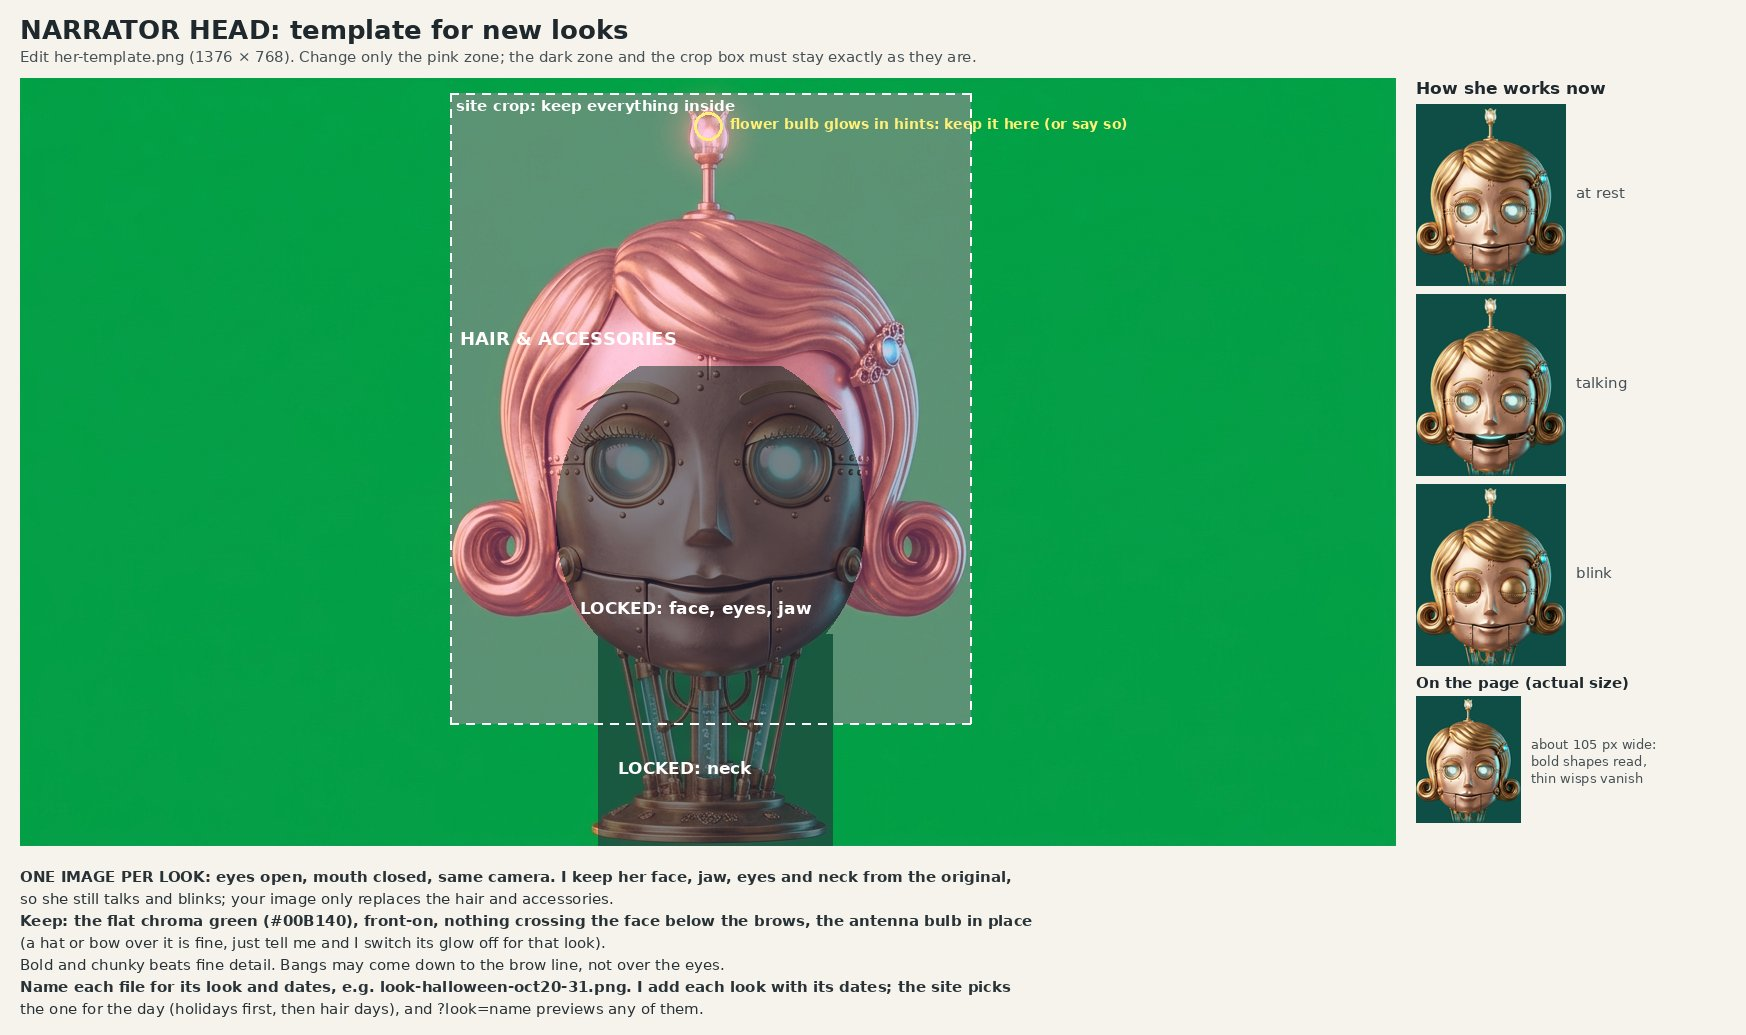
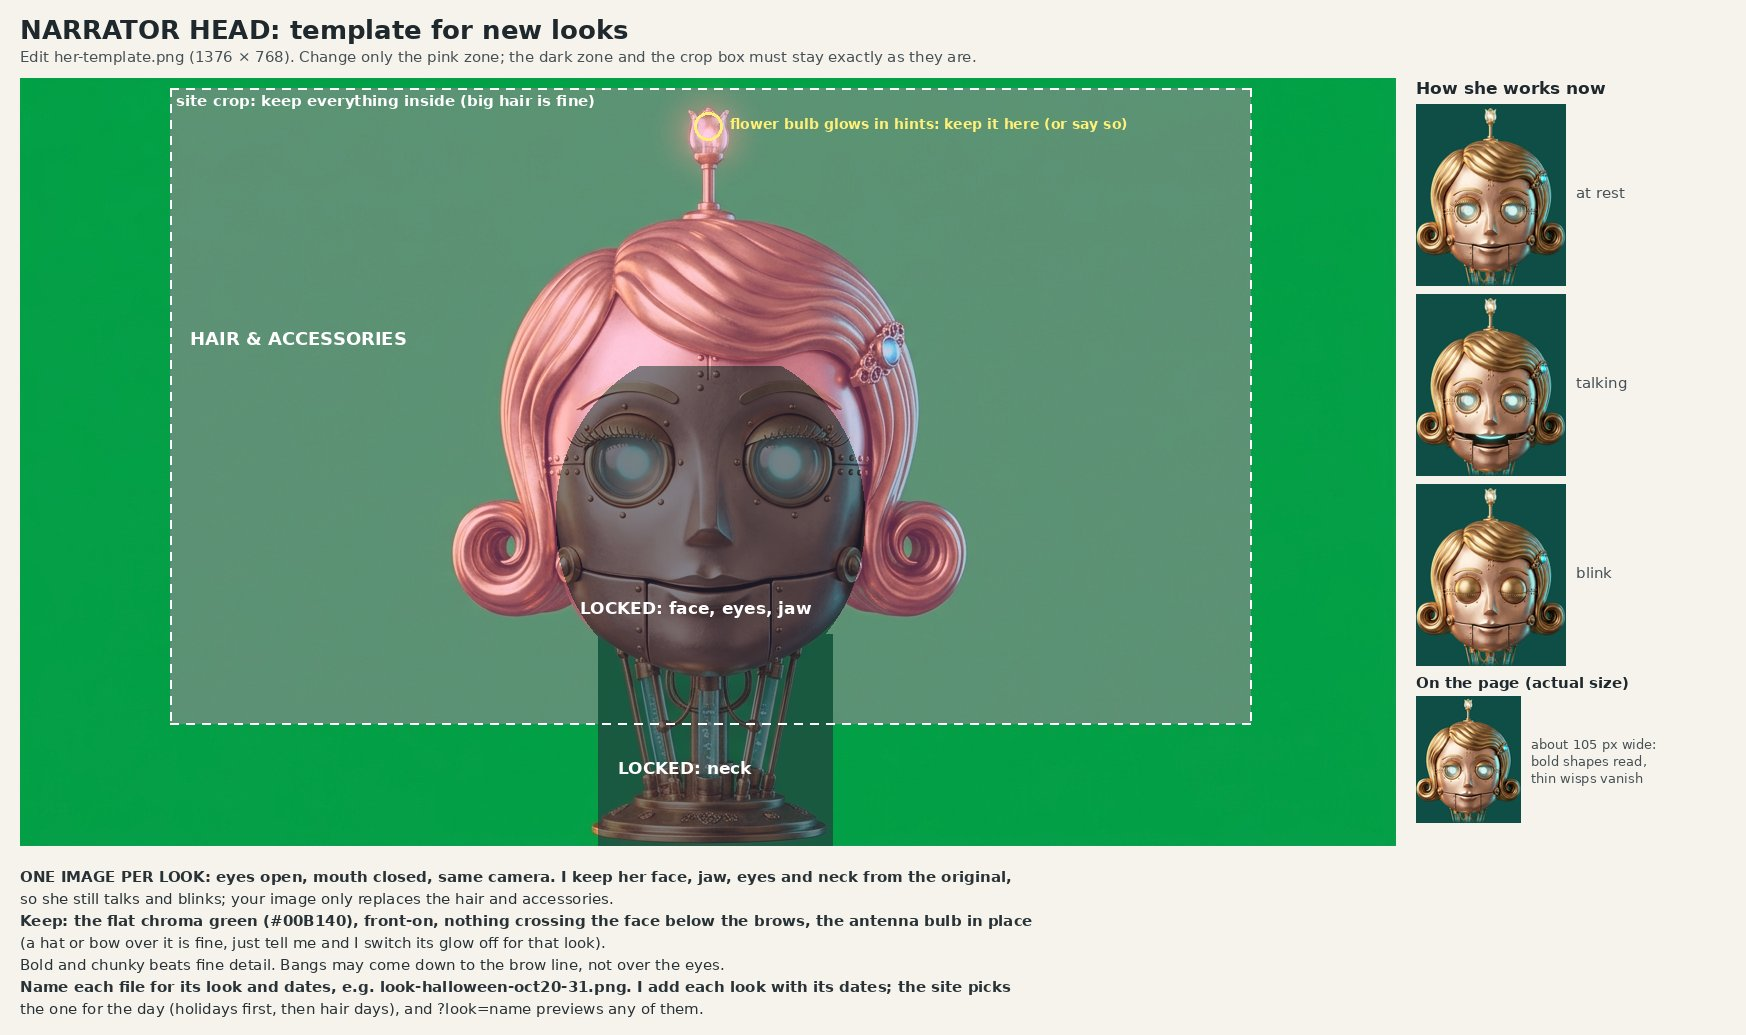
Narrator: room for big hair, and a new look on every page load (#144)
- Her head's layers are cut wider (x 150 to 1230 of the 1376 x 768 renders) so a perm, a crimp
  or a side ponytail fits; her face sits exactly where it did. The face lock, the edit mask and
  the contact sheet follow the new box.
- On days without a holiday look she now picks at random on each page load, from her curls and
  the looks marked rotate (the same one in every bar on a page).

Claude-Session: https://claude.ai/code/session_0195hiXiVZY5DpQ2CCYEr2vL

Changed region(s): [[0.0928, 0.0618, 0.7423, 0.7111]]

diff --git a/js/narrator.js b/js/narrator.js
@@ -16,7 +16,7 @@
    - Now and then it blinks. With reduced motion it stays still, and only the mouth moves. */
 (function () {
   'use strict';
-  var A = '/assets/narrator/', V = '?v=7', DROP = 0.054;   // the chin plate's drop, as a share of the head's height (the side plates go half as far)
+  var A = '/assets/narrator/', V = '?v=8', DROP = 0.0535;   // the chin plate's drop, as a share of the head layer's height (the side plates go half as far)
   var D = 193 / 24, IDLE = 0, GESTURES = [{ f: 1, r: 2 }, { f: 3, r: 4 }];   // the parts of narrator.mp4: forward and backwards copies
   // the hints, parts 5 to 7, with what the head does when (seconds into the part): look toward Play, wink, the bulb glows
   var HINTS = [
@@ -27,9 +27,9 @@
 
   // HER LOOKS (assets/narrator/looks.json): new hair and accessories over the same face, jaw, eyes and neck, so only
   // the head's base layer changes (made in the Workshop's "Narrator looks"). A look with dates ("10-20" to "10-31",
-  // which may wrap the new year) wears on those days; looks marked "rotate" take turns, a day each, with her own curls,
-  // on the days in between. ?look=name in the address shows any look; ?look=curls her own. "bulb": false for a look
-  // whose hat or bow covers the antenna (its glow stays off).
+  // which may wrap the new year) wears on those days; on other days she picks one at random on each page load from
+  // her own curls and the looks marked "rotate" (the same one in every bar on the page). ?look=name in the address
+  // shows any look; ?look=curls her own. "bulb": false for a look whose hat or bow covers the antenna.
   var looks = fetch(A + 'looks.json' + V, { cache: 'no-cache' }).then(function (r) { return r.ok ? r.json() : { looks: [] }; }).catch(function () { return { looks: [] }; }).then(function (j) {
     var list = (j && j.looks) || [], m = /[?&+]look=([a-z0-9-]+)/i.exec(location.search), d = new Date();
     if (m) return list.filter(function (l) { return l.name === m[1].toLowerCase(); })[0] || null;
@@ -37,7 +37,7 @@
     var on = list.filter(function (l) { return l.from && l.to && (l.from <= l.to ? md >= l.from && md <= l.to : md >= l.from || md <= l.to); })[0];
     if (on) return on;
     var turns = [null].concat(list.filter(function (l) { return l.rotate; }));
-    return turns[Math.floor((d - new Date(d.getFullYear(), 0, 0)) / 864e5) % turns.length];
+    return turns[Math.floor(Math.random() * turns.length)];
   });
   function wear(nb) {
     looks.then(function (l) {

diff --git a/css/narrator.css b/css/narrator.css
@@ -12,9 +12,9 @@ section.listen.has-nb::before{content:"";position:absolute;left:0;right:0;bottom
   /* its right edge blends into the desk strip, and its top edge softens into the bar */
   -webkit-mask-image:linear-gradient(90deg,#000 95%,transparent),linear-gradient(180deg,transparent,#000 6%);-webkit-mask-composite:source-in;
   mask-image:linear-gradient(90deg,#000 95%,transparent),linear-gradient(180deg,transparent,#000 6%);mask-composite:intersect}
-/* her head: her chin rests on the torso's collar (the collar's top is 9.8% down the torso); her curls make it
-   wide, 50% of the robot's width */
-.nb-head{position:absolute;left:25%;width:50%;bottom:79.8%;aspect-ratio:300/363;transform-origin:50% 92%;z-index:1;transition:rotate .5s cubic-bezier(.3,1.4,.5,1),translate .5s cubic-bezier(.3,1.4,.5,1);
+/* her head: her chin rests on the torso's collar (the collar's top is 9.8% down the torso). The layers are cut
+   wide, so big hair (a perm, a ponytail) has room: her face itself is 30% of the robot's width */
+.nb-head{position:absolute;left:-1.92%;width:103.85%;bottom:79.8%;aspect-ratio:623/366;transform-origin:50% 92.1%;pointer-events:none;z-index:1;transition:rotate .5s cubic-bezier(.3,1.4,.5,1),translate .5s cubic-bezier(.3,1.4,.5,1);
   filter:drop-shadow(0 3px 5px rgba(0,0,0,.35))}
 .nb-head img{position:absolute;inset:0;width:100%;height:100%;display:block}
 .nb-jaw,.nb-jaw-s{will-change:transform}
@@ -22,8 +22,8 @@ section.listen.has-nb::before{content:"";position:absolute;left:0;right:0;bottom
 .nb.wink .nb-lids{opacity:1;clip-path:inset(0 0 0 50%)}   /* a wink: the eye nearer the Play button */
 .nb.blink .nb-lids{opacity:1;clip-path:none}
 /* the hints: the head turns toward the Play button, and the antenna bulb glows and flickers */
-.nb.look .nb-head{rotate:7deg;translate:5% 0}
-.nb-bulb{position:absolute;left:49.6%;top:5.2%;width:26%;aspect-ratio:1;translate:-50% -50%;border-radius:50%;pointer-events:none;opacity:0;transition:opacity .15s;
+.nb.look .nb-head{rotate:7deg;translate:2.4% 0}
+.nb-bulb{position:absolute;left:49.8%;top:6%;width:12.5%;aspect-ratio:1;translate:-50% -50%;border-radius:50%;pointer-events:none;opacity:0;transition:opacity .15s;
   background:radial-gradient(circle,rgba(235,255,255,.95) 0,rgba(130,240,255,.6) 22%,rgba(80,220,255,0) 68%);mix-blend-mode:screen}
 .nb.nb-nobulb .nb-bulb{display:none}   /* a look whose hat or bow covers the antenna */
 .nb.glow .nb-bulb{opacity:1;animation:nb-flick .36s steps(2,jump-none) infinite}

diff --git a/index.html b/index.html
@@ -24,7 +24,7 @@
 <link rel="stylesheet" href="css/play-inline.css?v=1794600000">
 <link rel="stylesheet" href="css/logo.css?v=11">
 <link rel="stylesheet" href="css/lake.css?v=1">
-<link rel="stylesheet" href="css/narrator.css?v=8">
+<link rel="stylesheet" href="css/narrator.css?v=9">
 <script>/* The lake closed by the link (nlake) or last time (js/lake.js): start with the clean top, no flash of the scene. */try{var w=decodeURIComponent(location.search).toLowerCase(),n=/(^|[?+&,;\s])nlake([+&,;\s=]|$)/.test(w),y=/(^|[?+&,;\s])ylake([+&,;\s=]|$)/.test(w);if(n||(!y&&localStorage.getItem("cg-lake")==="0"))document.documentElement.classList.add("lake-off")}catch(e){}</script>
 <link rel="stylesheet" href="css/footer.css?v=1793360000">
 <script>/* Night links (?night, ?nightmode, ?darkmode) open with the page already dark: no white flash, no fade. */
@@ -256,7 +256,7 @@ document.documentElement.classList.add('night-page');})();</script>
 <script src="js/audio-rules.js?v=1" defer></script>
 <script src="js/play-inline.js?v=1794600000" defer></script>
 <script src="js/lake.js?v=3" defer></script>
-<script src="js/narrator.js?v=7" defer></script>
+<script src="js/narrator.js?v=8" defer></script>
 <!-- About: the name in the header opens the résumé (about/) as a modal. -->
 <script src="js/about.js?v=1793460000" defer></script>
 <!-- Footer: chipmunks, trail log (waits until the footer is near the screen). -->
